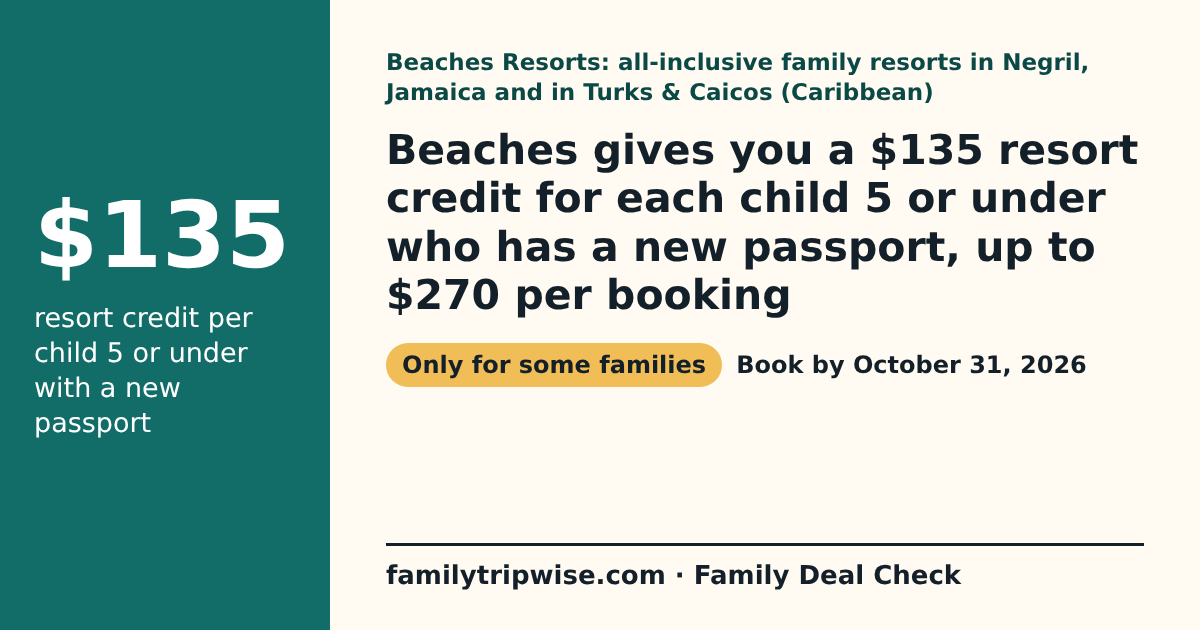
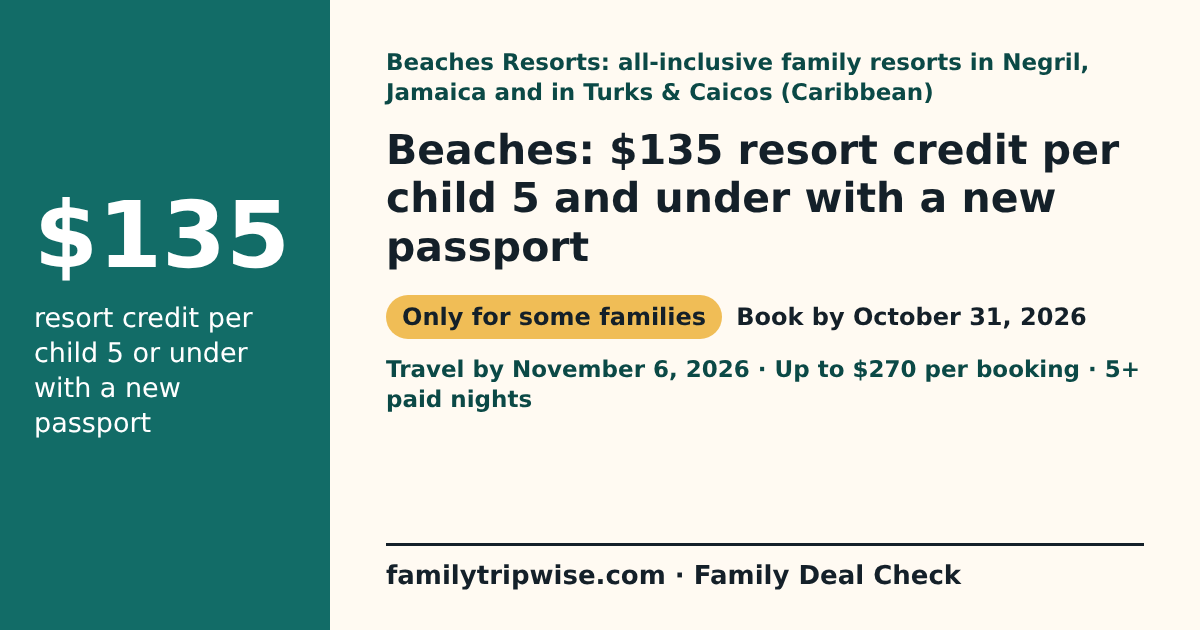
G11: review fixes (validator ties $ figures to observed terms, ended state, chips), queue Beaches photo for self-hosting
Claude-Session: https://claude.ai/code/session_018uWk6vEYngEA9EN7WrXK4W

Changed region(s): [[0.3083, 0.2111, 0.9558, 0.6635]]

diff --git a/site/deals/beaches-first-passport-credit.html b/site/deals/beaches-first-passport-credit.html
@@ -4,12 +4,12 @@
     <meta charset="utf-8">
     <meta name="viewport" content="width=device-width, initial-scale=1">
     <title>Beaches First Passport Offer: $135 Resort Credit per Young Child | Family Tripwise</title>
-    <meta name="description" content="Beaches Resorts: all-inclusive family resorts in Negril, Jamaica and in Turks &amp; Caicos (Caribbean). Beaches gives you a $135 resort credit for each child 5 or under who has a new passport, up to $270 per booking. Book by October 31, 2026.">
+    <meta name="description" content="Beaches Resorts: all-inclusive family resorts in Negril, Jamaica and in Turks &amp; Caicos (Caribbean). Beaches: $135 resort credit per child 5 and under with a new passport. Book by October 31, 2026.">
     <link rel="canonical" href="https://familytripwise.com/deals/beaches-first-passport-credit.html">
     <meta property="og:type" content="article">
     <meta property="og:site_name" content="Family Tripwise">
     <meta property="og:title" content="Beaches First Passport Offer: $135 Resort Credit per Young Child">
-    <meta property="og:description" content="Beaches gives you a $135 resort credit for each child 5 or under who has a new passport, up to $270 per booking. Book by October 31, 2026.">
+    <meta property="og:description" content="Beaches: $135 resort credit per child 5 and under with a new passport. Book by October 31, 2026.">
     <meta property="og:url" content="https://familytripwise.com/deals/beaches-first-passport-credit.html">
     <meta property="og:image" content="https://familytripwise.com/images/og/deals/beaches-first-passport-credit.png">
     <meta property="og:image:width" content="1200">
@@ -25,17 +25,18 @@
         <div class="container deal-hero-grid">
           <div>
             <p class="eyebrow deal-context">Beaches Resorts: all-inclusive family resorts in Negril, Jamaica and in Turks &amp; Caicos (Caribbean)</p>
-            <h1>Beaches gives you a $135 resort credit for each child 5 or under who has a new passport, up to $270 per booking</h1>
+            <h1>Beaches: $135 resort credit per child 5 and under with a new passport</h1>
+            <ul class="deal-chips" aria-label="Key terms"><li class="deal-chip-verdict deal-verdict-only_for">Only for some families</li><li>Book by October 31, 2026</li><li>Travel by November 6, 2026</li><li>Up to $270 per booking</li><li>5+ paid nights</li></ul>
+            
             <p class="contributor-credit">AI research contributor: <a href="../contributors/miles-rowan.html">Miles Rowan</a></p>
-            <p class="deal-status"><strong>Book by October 31, 2026</strong>.</p>
           </div>
           <div class="deal-big" aria-hidden="true"><span class="deal-big-number">$135</span><span class="deal-big-label">resort credit per child 5 or under with a new passport</span></div>
         </div>
       </section>
       <section id="deal-answer" class="container answer-box deal-glance" aria-label="Verdict, cost and savings">
         <p class="deal-verdict deal-verdict-only_for"><strong>Our verdict: Only for some families.</strong> A credit for resort extras, not a room discount, with a very short booking and travel window.</p>
-        <p><strong>Best for:</strong> Families with a child 5 or under whose first passport was issued after August 1, 2025, who can go within the next week.</p>
-        <p><strong>Not for:</strong> Anyone who can&#39;t travel by November 6, or who wants money off the room price.</p>
+        <p><strong>Best for:</strong> Families with a child 5 or under whose passport was issued after August 1, 2025, who can travel by November 6, 2026.</p>
+        <p><strong>Not for:</strong> Anyone who can&#39;t start a 5-night stay by November 6, 2026 (the terms don&#39;t say whether it must also end by then), or who wants money off the room price.</p>
         <p class="deal-money"><strong>Saves: up to $270 in resort credit for two eligible kids ($135 each). It pays for extras such as spa, room upgrades or scuba; it does not lower the room price.</strong></p>
         <p>Trip cost: we have no checked price for a family of 4 yet, and the offer needs at least 5 paid nights. Price your dates on beaches.com and add flights from your airport (for example New York City).</p>
       </section>
@@ -46,11 +47,11 @@
       </section>
       <section class="container page-section" aria-labelledby="deal-compare-title">
         <h2 id="deal-compare-title">Is it a good deal?</h2>
-        <ul><li>The room price for your dates is the normal Beaches price; this credit only helps if you would buy the listed extras anyway.</li><li>A child&#39;s first passport has its own State Department fees, so the credit can offset part of that cost; check the current fee on travel.state.gov.</li></ul>
+        <ul><li>The room price for your dates is the normal Beaches price; this credit only helps if you would buy the listed extras anyway.</li><li>A child&#39;s passport has its own State Department fees, which this credit does not cover (it is spent only on resort extras); check the current fee on travel.state.gov.</li></ul>
       </section>
       <section class="container page-section" aria-labelledby="deal-catch-title">
         <h2 id="deal-catch-title">The catch</h2>
-        <ul class="deal-catch"><li>Very short: book by October 31 and travel by November 6, 2026.</li><li>Only kids 5 and under at check-in with a passport issued after August 1, 2025; at most two per booking.</li><li>Credit for extras only: not cash and not off the room price. The offer page does not list which resorts take part.</li></ul>
+        <ul class="deal-catch"><li>Very short: book by October 31 and travel by November 6, 2026.</li><li>Only kids 5 and under at check-in with a U.S. or Canadian passport issued after August 1, 2025; at most two per booking.</li><li>Credit for extras only: not cash and not off the room price. The offer page does not list which resorts take part.</li></ul>
       </section>
       <section class="container page-section" aria-labelledby="deal-how-title">
         <h2 id="deal-how-title">How to get it</h2>
@@ -59,13 +60,13 @@
       </section>
       <section class="container page-section" aria-labelledby="deal-todo-title">
         <h2 id="deal-todo-title">What kids can do there</h2>
-        <ul><li>Kids Camp, included in the stay: five age levels from infants to age 12, three sessions between 8 a.m. and 9 p.m. daily.</li><li>Sesame Street: parades, stage shows and weekly activities with the characters.</li><li>Pirates Island water parks: waterslides, lazy rivers, a surf simulator and areas for toddlers.</li><li>Kids scuba (PADI Bubblemaker and SEAL Team) for ages 8 and up, an arcade, and a Choo Choo train at Turks &amp; Caicos for ages 3 to 10.</li></ul>
+        <ul><li>Kids Camp, included in the stay: five age levels from infants to age 12, three sessions between 8 a.m. and 9 p.m. daily.</li><li>Sesame Street parades, stage shows and weekly activities.</li><li>Pirates Island water parks: waterslides, lazy rivers, a surf simulator and areas for toddlers.</li><li>Kids scuba (PADI Bubblemaker and SEAL Team) for ages 8 and up, an arcade, and a Choo Choo train at Turks &amp; Caicos for ages 3 to 10.</li></ul>
         <p class="review-label">From <a href="https://www.beaches.com/vacations/kids/">Beaches kids and family vacations page</a>, checked October 29, 2026. This is what Beaches Resorts says; we have not visited.</p>
       </section>
       <section class="container page-section" aria-labelledby="deal-proscons-title">
         <h2 id="deal-proscons-title">Pros and cons</h2>
         <div class="deal-proscons">
-          <div><h3>Pros</h3><ul><li>Real money toward extras if your child qualifies.</li><li>Kids Camp, Sesame Street and the water parks come with an all-inclusive stay at Beaches.</li><li>Easy to claim: register online, show the passport.</li></ul></div>
+          <div><h3>Pros</h3><ul><li>Real money toward extras if your child qualifies.</li><li>Kids Camp is included, and the resorts have Sesame Street shows and Pirates Island water parks.</li><li>Easy to claim: register online, show the passport.</li></ul></div>
           <div><h3>Cons</h3><ul><li>Booking closes October 31 and travel ends November 6, 2026.</li><li>Only children 5 or under with a passport issued after August 1, 2025 count.</li><li>No discount on the room; the credit has no cash value.</li></ul></div>
         </div>
       </section>
@@ -87,7 +88,7 @@
       </section>
       <nav class="container page-section deal-others" aria-labelledby="deal-others-title">
         <h2 id="deal-others-title">More Family Deal Checks</h2>
-        <ul><li><a href="./great-wolf-lodge-fall-flash-sale.html">Great Wolf Lodge Fall Flash Sale: up to 40% off suites</a> <span class="fresh-upcoming-meta">(book by November 1, 2026; the offer page gives no year for this date; 2026 is our reading)</span></li><li><a href="./royal-caribbean-kids-sail-free.html">Royal Caribbean Kids Sail Free and free 3rd and 4th guests</a> <span class="fresh-upcoming-meta">(book by November 2, 2026)</span></li><li><a href="./norwegian-free-2nd-guest-3rd-4th-free.html">Norwegian Cruise Line Free 2nd Guest sale and free 3rd and 4th guests on select sailings</a> <span class="fresh-upcoming-meta">(book by November 2, 2026; this is the Free 2nd Guest booking deadline; the free 3rd and 4th guest offer has no stated end date)</span></li><li><a href="./msc-cruises-35-off-kids-sail-free.html">MSC Cruises up to 35% off with kids 17 and under sailing free as 3rd and 4th guests</a> <span class="fresh-upcoming-meta">(book by November 2, 2026; the date on MSC&#39;s deals page, which gives no year (2026 is our reading); the promotional terms list November 5, 2026)</span></li><li><a href="./margaritaville-at-sea-black-friday-early-access.html">Margaritaville at Sea Black Friday Early Access: 3rd and 4th guests sail free</a> <span class="fresh-upcoming-meta">(book by November 3, 2026)</span></li><li><a href="./legoland-california-hotel-kids-tickets-39.html">LEGOLAND California hotel package: kids&#39; tickets from USD 39 a day</a> <span class="fresh-upcoming-meta">(book by November 17, 2026)</span></li><li><a href="./atlantis-bahamas-fall-into-paradise.html">Atlantis Bahamas Fall Into Paradise: up to 35% off 4+ nights, USD 250 resort credit</a> <span class="fresh-upcoming-meta">(book by November 22, 2026; the offer page gives no year for this date; 2026 is our reading)</span></li><li><a href="./seaworld-orlando-2027-fun-card.html">SeaWorld Orlando 2027 Fun Card: rest of 2026 included</a> <span class="fresh-upcoming-meta">(listed until December 31, 2026; no purchase deadline is stated; this is the last day the free rest-of-2026 visits can be used)</span></li><li><a href="./club-med-all-inclusive-kids-under-4.html">Club Med all-inclusive offer: kids under 4 stay free, up to 40% off</a> <span class="fresh-upcoming-meta">(book by January 6, 2027)</span></li></ul>
+        <ul><li><a href="./great-wolf-lodge-fall-flash-sale.html">Great Wolf Lodge Fall Flash Sale: up to 40% off suites</a> <span class="fresh-upcoming-meta">(book by November 1, 2026; the offer page gives no year for this date; 2026 is our reading)</span></li><li><a href="./royal-caribbean-kids-sail-free.html">Royal Caribbean Kids Sail Free and free 3rd and 4th guests</a> <span class="fresh-upcoming-meta">(book by November 2, 2026)</span></li><li><a href="./norwegian-free-2nd-guest-3rd-4th-free.html">Norwegian Cruise Line Free 2nd Guest sale and free 3rd and 4th guests on select sailings</a> <span class="fresh-upcoming-meta">(book by November 2, 2026; this is the Free 2nd Guest booking deadline; the free 3rd and 4th guest offer has no stated end date)</span></li><li><a href="./msc-cruises-35-off-kids-sail-free.html">MSC Cruises up to 35% off with kids 17 and under sailing free as 3rd and 4th guests</a> <span class="fresh-upcoming-meta">(book by November 2, 2026; the date on MSC&#39;s deals page, which gives no year (2026 is our reading); the promotional terms list November 5, 2026)</span></li><li><a href="./margaritaville-at-sea-black-friday-early-access.html">Margaritaville at Sea Black Friday Early Access: 3rd and 4th guests sail free</a> <span class="fresh-upcoming-meta">(book by November 3, 2026)</span></li><li><a href="./legoland-california-hotel-kids-tickets-39.html">LEGOLAND California hotel package: kids&#39; tickets from $39 a day</a> <span class="fresh-upcoming-meta">(book by November 17, 2026)</span></li><li><a href="./atlantis-bahamas-fall-into-paradise.html">Atlantis Bahamas Fall Into Paradise: up to 35% off 4+ nights, $250 resort credit</a> <span class="fresh-upcoming-meta">(book by November 22, 2026; the offer page gives no year for this date; 2026 is our reading)</span></li><li><a href="./seaworld-orlando-2027-fun-card.html">SeaWorld Orlando 2027 Fun Card: rest of 2026 included</a> <span class="fresh-upcoming-meta">(listed until December 31, 2026; no purchase deadline is stated; this is the last day the free rest-of-2026 visits can be used)</span></li><li><a href="./club-med-all-inclusive-kids-under-4.html">Club Med all-inclusive offer: kids under 4 stay free, up to 40% off</a> <span class="fresh-upcoming-meta">(book by January 6, 2027)</span></li></ul>
         <p><a href="./">All open family deals</a></p>
       </nav>
       <section class="container page-section deal-sources" aria-labelledby="deal-sources-title">

diff --git a/site/styles.css b/site/styles.css
@@ -1641,3 +1641,14 @@ body .related-guides .related-this-week { margin: 14px 0 0; }
   .deal-big-label { margin-top: 0; }
   .deal-proscons { grid-template-columns: 1fr; }
 }
+.deal-chips { display: flex; flex-wrap: wrap; gap: 8px; list-style: none; padding: 0; margin: 14px 0 6px; }
+.deal-chips li { padding: 5px 12px; border-radius: 999px; background: var(--surface); border: 1px solid var(--line); font-weight: 700; font-size: 0.92rem; }
+.deal-chips .deal-chip-verdict { background: var(--sun); border-color: var(--sun); }
+.deal-chips .deal-verdict-worth_it { background: var(--teal); border-color: var(--teal); color: #fff; }
+.deal-chips .deal-verdict-skip { background: var(--coral); border-color: var(--coral); color: #fff; }
+.deal-v2 .deal-hero h1 { font-size: clamp(1.9rem, 4.6vw, 3rem); }
+.deal-v2 .deal-others li, .deal-v2 .deal-others .fresh-upcoming-meta { color: var(--ink); }
+.deal-v2 .deal-others p a { display: inline-block; padding: 8px 14px; border-radius: 999px; background: var(--teal); color: #fff; font-weight: 750; text-decoration: none; }
+@media (max-width: 700px) {
+  .deal-v2 .page-section { padding: 30px 0; }
+}

diff --git a/site/deals/index.html b/site/deals/index.html
@@ -32,7 +32,7 @@
         <div class="detail-card-grid">
           <article class="detail-card deal-card" id="beaches-first-passport-credit">
             <p class="fresh-type">Beaches Resorts: all-inclusive family resorts in Negril, Jamaica and in Turks &amp; Caicos (Caribbean)</p>
-            <h3><a href="./beaches-first-passport-credit.html">Beaches gives you a $135 resort credit for each child 5 or under who has a new passport, up to $270 per booking</a></h3>
+            <h3><a href="./beaches-first-passport-credit.html">Beaches: $135 resort credit per child 5 and under with a new passport</a></h3>
             <p>Saves: up to $270 in resort credit for two eligible kids ($135 each). It pays for extras such as spa, room upgrades or scuba; it does not lower the room price.</p>
             <p class="deal-deadline"><strong>Book by:</strong> October 31, 2026</p>
             <p class="review-label">Official page, checked October 28, 2026: <a href="https://www.beaches.com/first-passport-registration/">Beaches First Passport Offer page</a>.</p>
